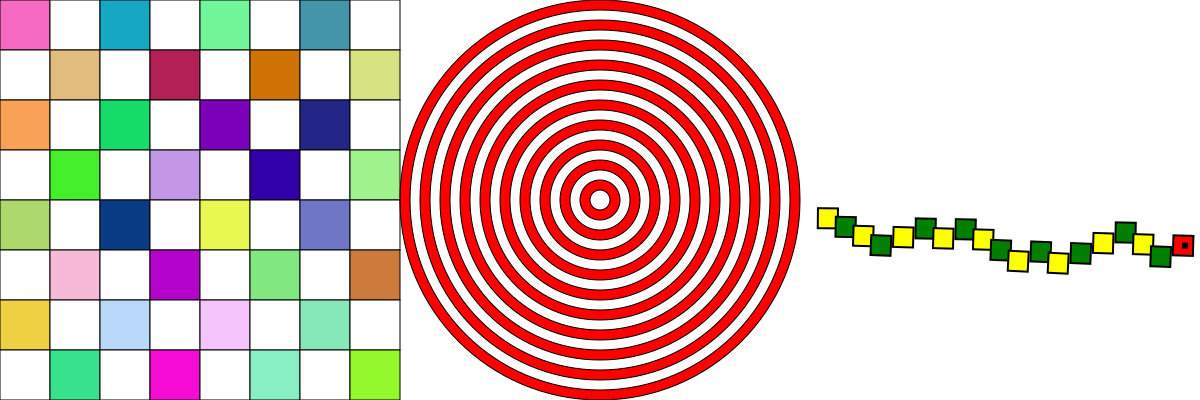
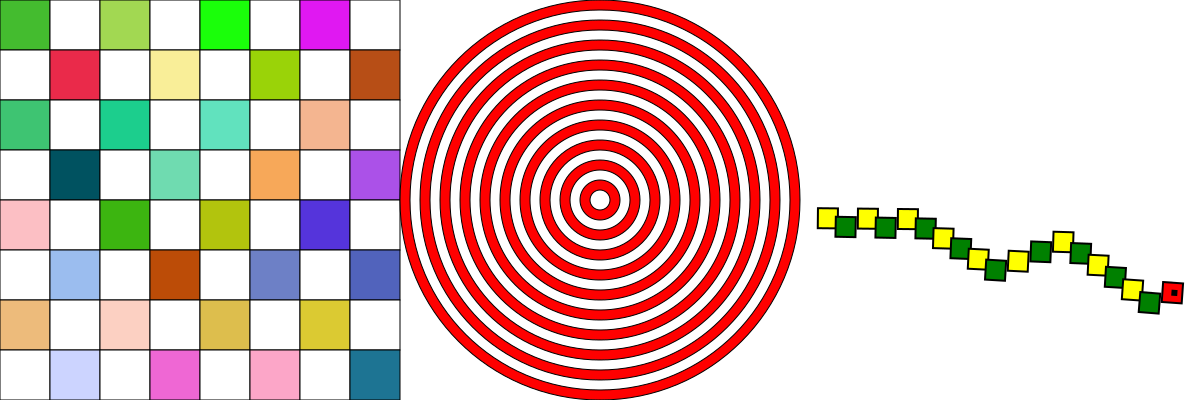
update e create: atualizado o exercicio2.js e criado e finalizado o exercicio3.js

Changed region(s): [[0.0, 0.0, 0.3392, 1.0], [0.7092, 0.51, 1.0, 0.78]]

diff --git a/atividade 2/exercicio3.js b/atividade 2/exercicio3.js
@@ -1,0 +1,46 @@
+const { createCanvas } = require("canvas");
+const { randomInt } = require("crypto");
+const fs = require("fs");
+
+const canvas = createCanvas(800, 800);
+const ctx = canvas.getContext("2d");
+
+ctx.rect(0, 0, canvas.width, canvas.height);
+ctx.fillStyle = "white";
+ctx.fill();
+
+function desenharPoligono(lados, tamanho) {
+  const centroX = canvas.width / 2;
+  const centroY = canvas.height / 2;
+  const angulo = (2 * Math.PI) / lados;
+  let x, y;
+
+  ctx.beginPath();
+  for (let i = 0; i < lados; i++) {
+    x = centroX + tamanho * Math.cos(i * angulo);
+    y = centroY + tamanho * Math.sin(i * angulo);
+    if (i === 0) {
+      ctx.moveTo(x, y);
+    } else {
+      ctx.lineTo(x, y);
+    }
+  }
+  ctx.fillStyle = "lightblue";
+  ctx.fill();
+  ctx.strokeStyle = "black";
+  ctx.lineWidth = 2;
+  ctx.closePath();
+  ctx.stroke();
+  
+  ctx.font = "20px Arial";
+  ctx.fillStyle = "black";
+  ctx.fillText(`Polígono de ${lados} lados`, centroX - 95, centroY - tamanho - 20);
+  ctx.fillText(`Lados: ${lados}`, centroX - 30, centroY + tamanho + 20);
+  ctx.fillText(`Tamanho: ${tamanho}`, centroX - 30, centroY + tamanho + 40);
+}
+
+desenharPoligono(10, 300);
+
+// Exportação em PNG
+const buffer = canvas.toBuffer("image/png");
+fs.writeFileSync("exercicio3_resultado.png", buffer);

diff --git a/atividade 2/exercicio2.js b/atividade 2/exercicio2.js
@@ -10,7 +10,7 @@ ctx.rect(0, 0, canvas.width, canvas.height);
 ctx.fillStyle = 'white';
 ctx.fill();
 
-function desenharMalha8por8DeQuadrados() {
+function desenharPoligono() {
   const tamanhoQuadrado = 50;
 
   ctx.lineWidth = 1;
